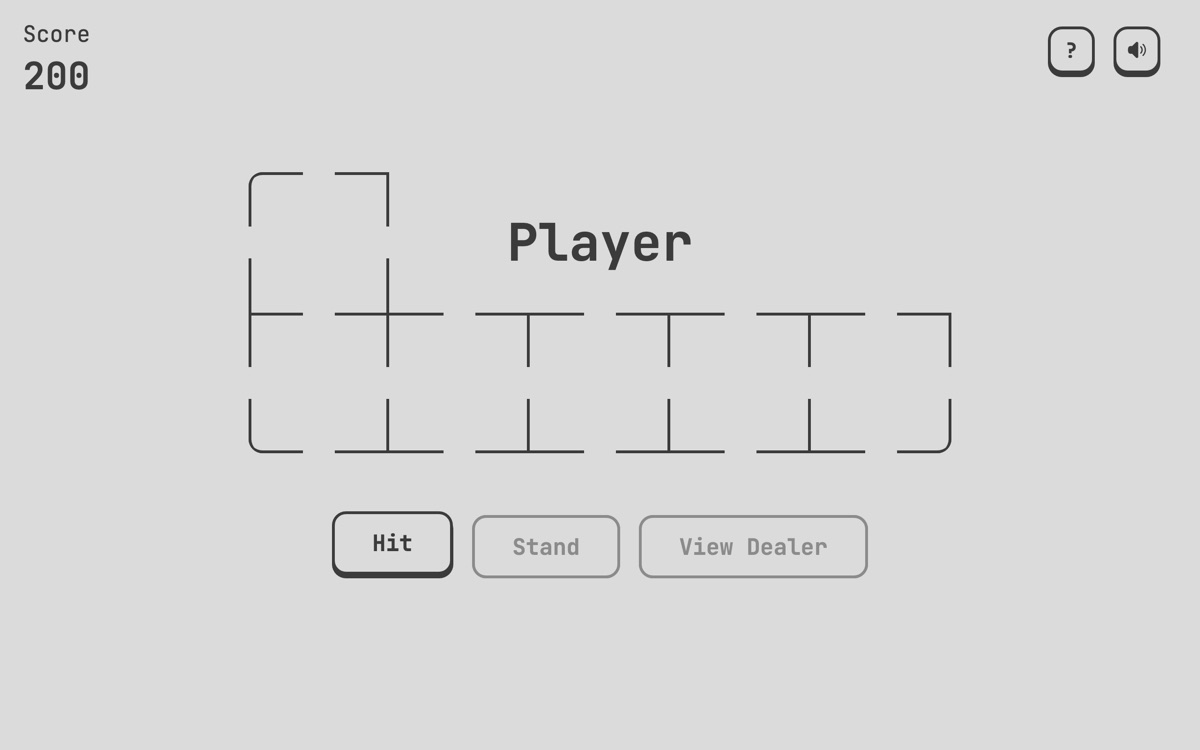
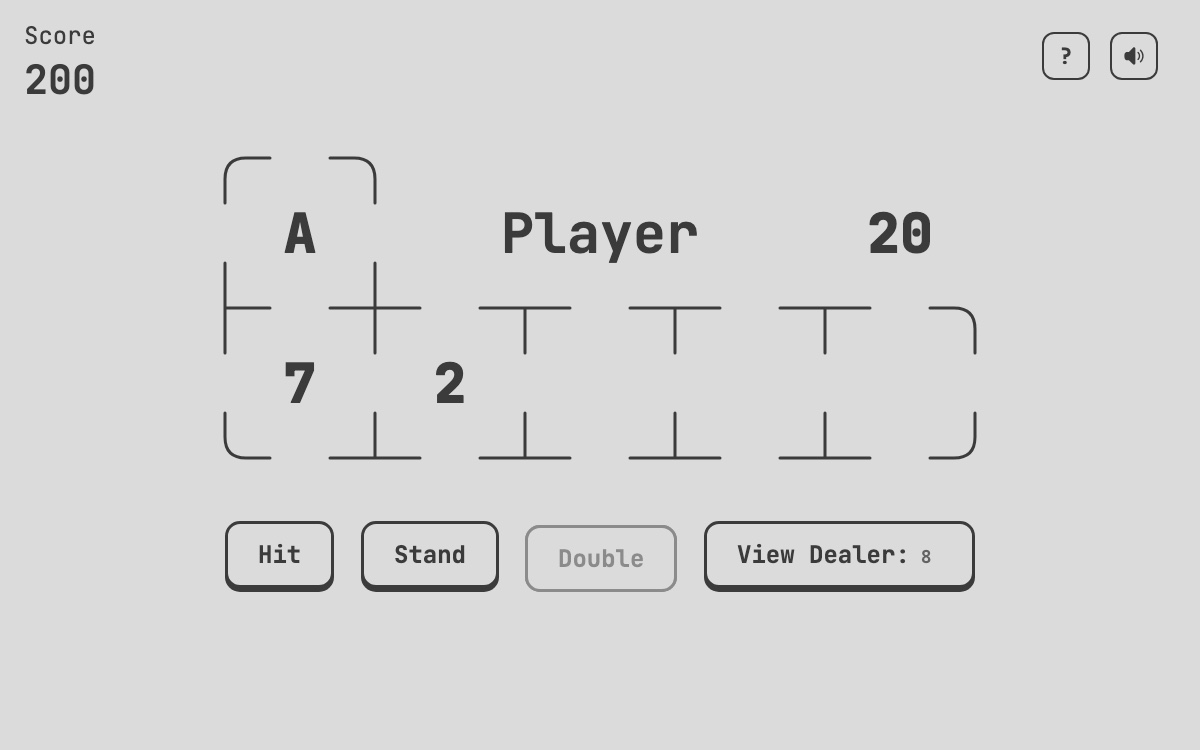
Retro Blackjack: new address, and a mockup beside the handheld that inspired it
Links now go to blackjack.grahamhagenah.com. The card's picture is a fresh
screenshot of the live game with a hand dealt (A, 7, 2 for 20), in a
browser window beside a flat drawing of the green electronic handheld, its
LCD showing the same grid of card slots. The card's text says where the
look comes from.

diff --git a/content/Projects.md b/content/Projects.md
@@ -33,10 +33,10 @@ Noteworthy projects I've built on my own time, from 2021 to 2026. Most are writt
 <p class="project-tech">Remix · Prisma · SQLite · Tailwind CSS · Fly.io</p>
 </a>
 <a class="link-button project-case" href="/stacks">Read the case study →</a>
-<a class="project" href="https://blackjack-graham.netlify.app/">
-<img src="/screenshots/blackjack.webp" width="1200" height="750" loading="lazy" decoding="async" alt="Retro Blackjack in plain gray and monospace type: an empty player's hand outlined in line art, above Hit, Stand and View Dealer buttons">
+<a class="project" href="https://blackjack.grahamhagenah.com/">
+<img class="mockup" src="/screenshots/blackjack.webp" width="1600" height="1000" loading="lazy" decoding="async" alt="Retro Blackjack in a desktop browser window, in plain gray and monospace type: the player's hand, an ace, a seven and a two for 20, in a grid of card slots outlined in line art, above Hit, Stand, Double and View Dealer buttons, beside a drawing of the green handheld blackjack game that inspired it, its screen showing the same grid with a king and an eight for 18">
 <h2>Retro Blackjack <span class="project-year">2021</span></h2>
-<p>Blackjack against the dealer, drawn in plain line art, with sound effects you can turn off.</p>
+<p>Blackjack against the dealer, inspired by the classic electronic handheld: the card slots are drawn like the segments of its LCD screen.</p>
 <p class="project-tech">React · React Spring · Netlify</p>
 </a>
 <a class="link-button project-case" href="/retro-blackjack">Read the case study →</a>

diff --git a/content/Retro Blackjack.md b/content/Retro Blackjack.md
@@ -2,7 +2,7 @@
 title: Retro Blackjack
 socialImage: share/retro-blackjack.png
 ---
-Blackjack against the dealer, drawn in plain line art. [Play Retro Blackjack](https://blackjack-graham.netlify.app/) · [Source on GitHub](https://github.com/grahamhagenah/blackjack)
+Blackjack against the dealer, drawn in plain line art. [Play Retro Blackjack](https://blackjack.grahamhagenah.com/) · [Source on GitHub](https://github.com/grahamhagenah/blackjack)
 
 A small game I built by hand in React in late 2021: dealing, scoring with aces worth one or eleven, and the dealer's turn. Most of the work after that went into making it fit and feel right on a phone, including small screens, a Safari transition bug, and haptic feedback. In early 2026 I came back to it to add an end-of-game screen, sound effects with the Web Audio API, keyboard shortcuts, and a rules screen.
 
